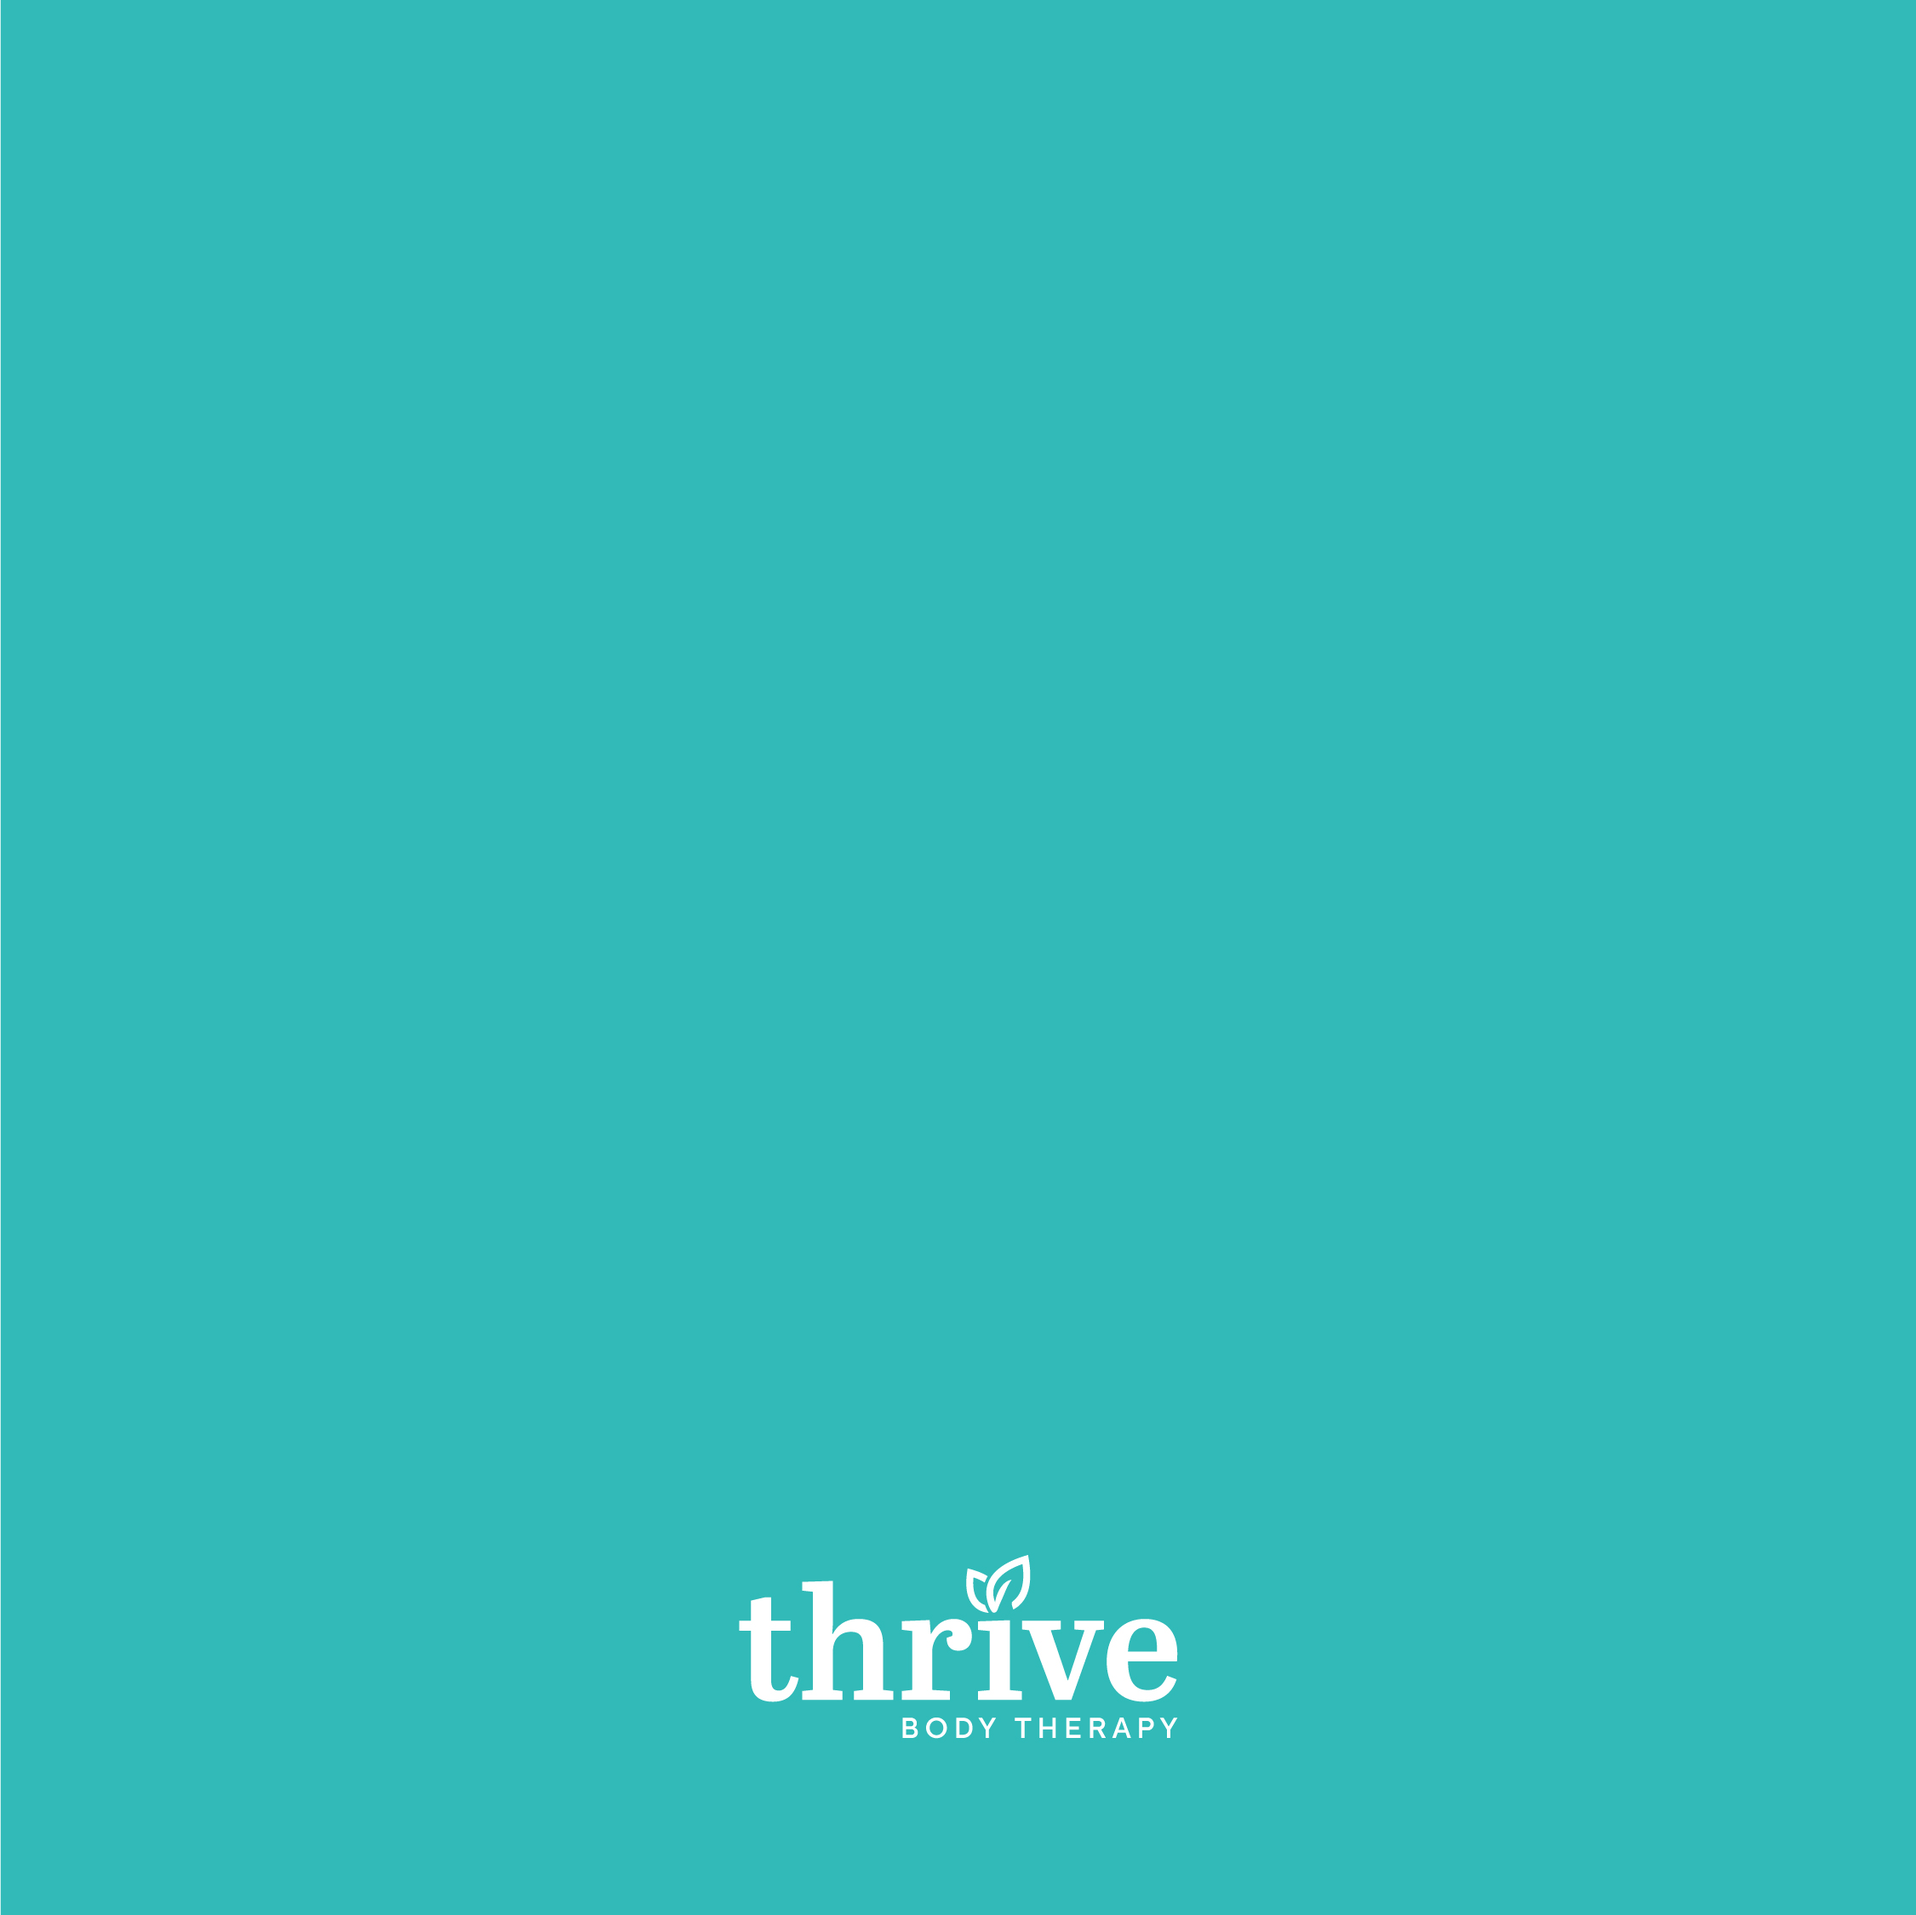
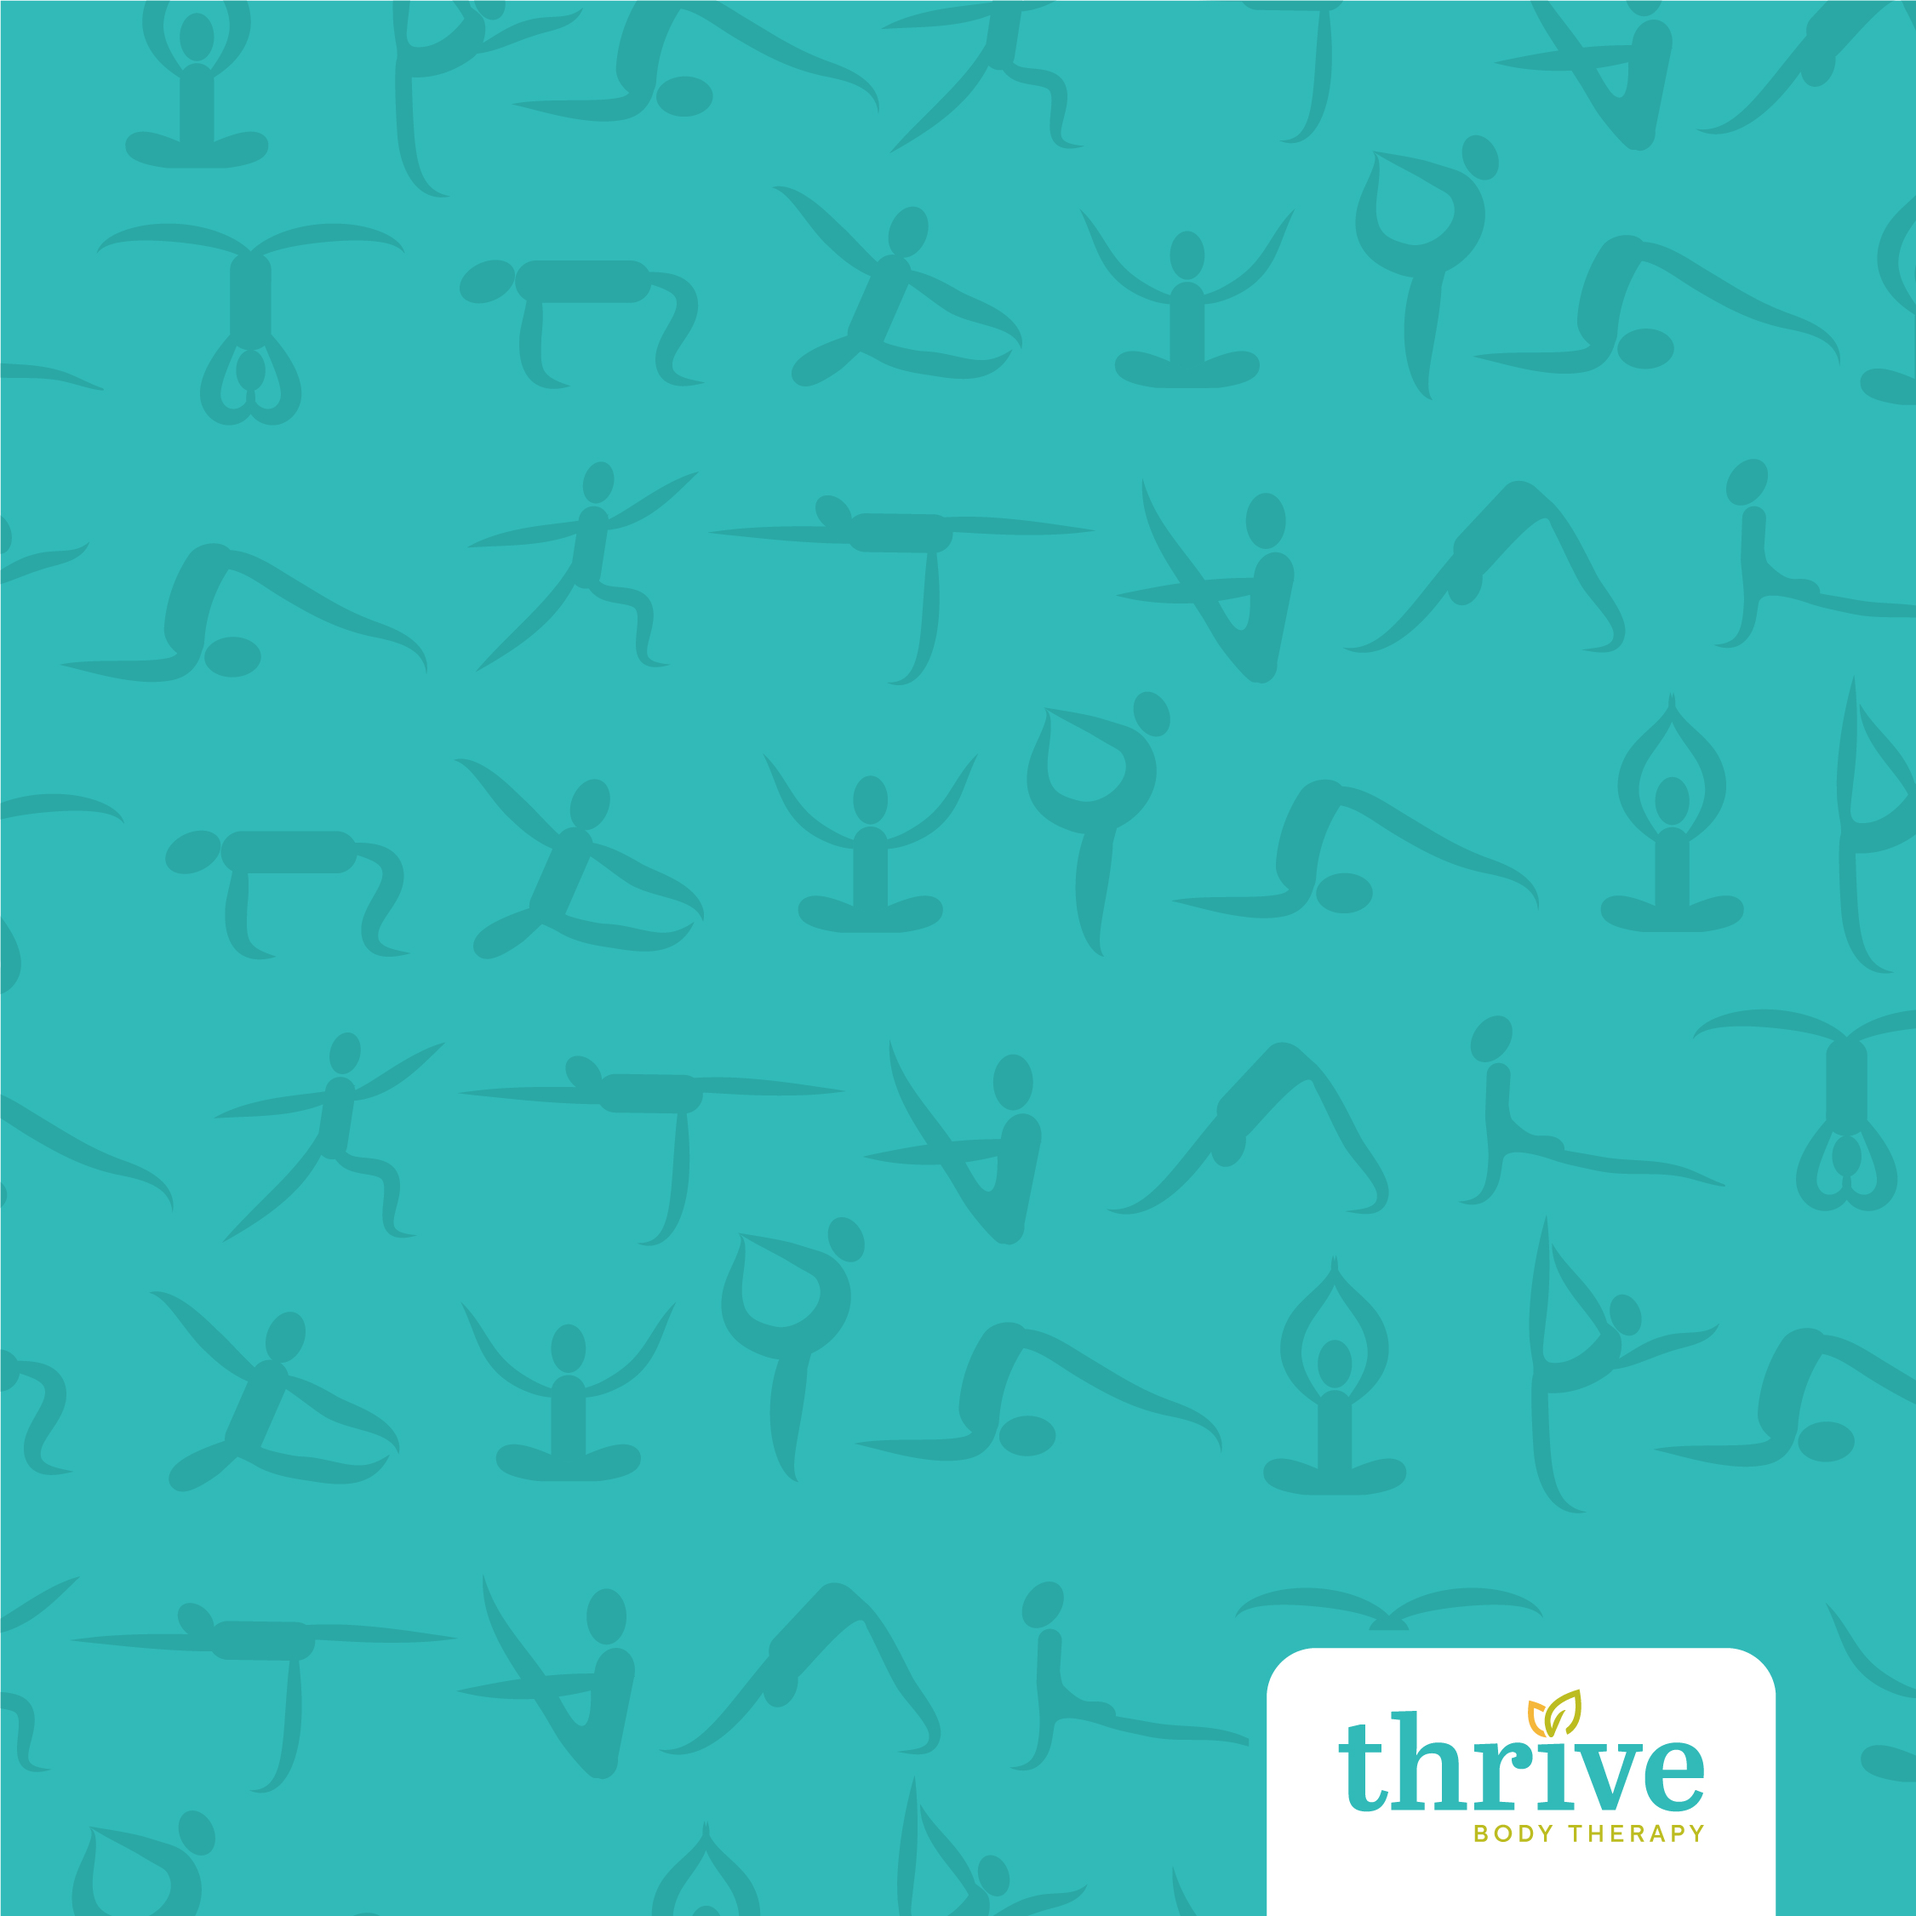
Use movement figure wallpaper as hero background

Changed region(s): [[0.653, 0.84, 0.9329, 1.0], [0.3732, 0.8089, 0.6219, 0.9022]]

diff --git a/index.html b/index.html
@@ -109,9 +109,9 @@ tr:hover td{background:#fafaf8}
 }
 
 /* ===== HERO ===== */
-.hero{background:linear-gradient(135deg,#31BAB9 0%,#279e9d 60%,#1e8585 100%);color:var(--white);padding:80px 20px 60px;text-align:center;position:relative;overflow:hidden}
-.hero::before{content:'';position:absolute;top:-60%;right:-10%;width:600px;height:600px;border-radius:50%;background:rgba(255,255,255,.06);pointer-events:none}
-.hero::after{content:'';position:absolute;bottom:-40%;left:-10%;width:400px;height:400px;border-radius:50%;background:rgba(255,255,255,.04);pointer-events:none}
+.hero{background:url('thrive-hero-bg.jpg') center 20%/cover no-repeat;color:var(--white);padding:80px 20px 60px;text-align:center;position:relative;overflow:hidden;min-height:320px}
+.hero::before{content:'';position:absolute;inset:0;background:rgba(30,120,120,0.35);pointer-events:none}
+.hero::after{content:'';pointer-events:none}
 .hero>*{position:relative;z-index:1}
 .hero h1{font-size:2.8rem;letter-spacing:-1px;margin-bottom:12px;position:relative}
 .hero p{font-size:1.15rem;opacity:.9;max-width:500px;margin:0 auto 28px;position:relative}

diff --git a/thrive-pilates.html b/thrive-pilates.html
@@ -109,9 +109,9 @@ tr:hover td{background:#fafaf8}
 }
 
 /* ===== HERO ===== */
-.hero{background:linear-gradient(135deg,#31BAB9 0%,#279e9d 60%,#1e8585 100%);color:var(--white);padding:80px 20px 60px;text-align:center;position:relative;overflow:hidden}
-.hero::before{content:'';position:absolute;top:-60%;right:-10%;width:600px;height:600px;border-radius:50%;background:rgba(255,255,255,.06);pointer-events:none}
-.hero::after{content:'';position:absolute;bottom:-40%;left:-10%;width:400px;height:400px;border-radius:50%;background:rgba(255,255,255,.04);pointer-events:none}
+.hero{background:url('thrive-hero-bg.jpg') center 20%/cover no-repeat;color:var(--white);padding:80px 20px 60px;text-align:center;position:relative;overflow:hidden;min-height:320px}
+.hero::before{content:'';position:absolute;inset:0;background:rgba(30,120,120,0.35);pointer-events:none}
+.hero::after{content:'';pointer-events:none}
 .hero>*{position:relative;z-index:1}
 .hero h1{font-size:2.8rem;letter-spacing:-1px;margin-bottom:12px;position:relative}
 .hero p{font-size:1.15rem;opacity:.9;max-width:500px;margin:0 auto 28px;position:relative}
